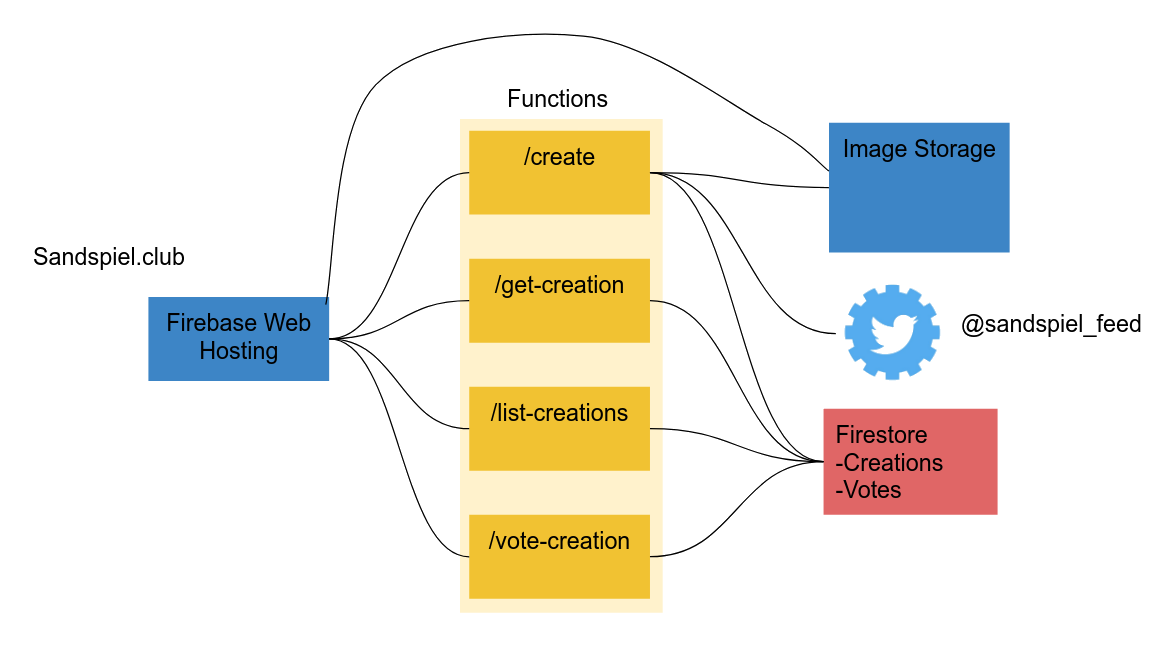
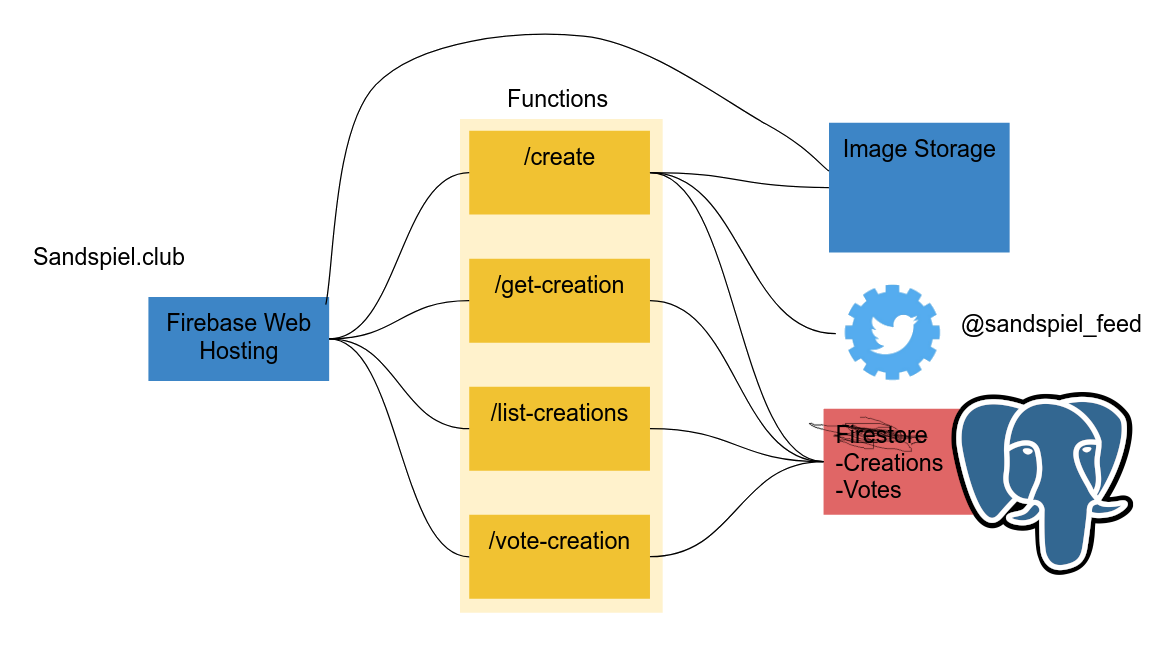
images

Changed region(s): [[0.8217, 0.5775, 1.0, 0.8815], [0.7, 0.6383, 0.7913, 0.6991]]

diff --git a/src/pages/making-sandspiel/index.md b/src/pages/making-sandspiel/index.md
@@ -1,7 +1,7 @@
 ---
-title: Making Sandspiel (wip dont share pls)
+title: Making Sandspiel
 path: making-sandspiel
-date: 2019-02-16 00:00:00
+date: 2019-04-30 00:00:00
 ---
 
 [Sandspiel](https://sandspiel.club) is a falling sand game I built in late 2018. I really enjoyed writing this game, and wanted to put into writing some of my goals, design decisions, and learnings from that process. If you're reading this and but you haven't played sandspiel, you should probably [go try it](https://sandspiel.club)!
@@ -24,9 +24,9 @@ I think that I love these games so much because their mode of play is creative i
 
 > "What happens if I do _this_?"
 
-In sand games, just like in other cellular automata (such as the _Game of Life_), the behavior of any single element is very simple. The interactions _between_ the elements and across the space is where the depth of the system unfolds. The result is a system with suprising depth and variety to explore.
+In sand games, just like in other cellular automata (such as the _Game of Life_), the behavior of any single element is very simple. The interactions _between_ the elements and across the space is where the depth of the system unfolds. The result is a system with surprising depth and variety to explore.
 
-It's also important that this system is engaging not just for it's complexity, but also because of the ways your imagination sees reality reflected in it. Predicting how a scenario will play out based on your physical intuition is a form of play, as is visualizing imaginary versions of what you see represented on screen. Much like playing with dolls or other simplistic simulations, pouring some yellow pixels onto some green ones can invoke a scene in your mind far more vivid than what happens on the screen.
+It's also important that this system is engaging not just for its actual depth, but also because of the ways your imagination sees reality reflected in it. Predicting how a scenario will play out based on your physical intuition is a form of play, as is visualizing imaginary versions of what you see represented on screen. Much like playing with dolls or other simplistic simulations, pouring some yellow pixels onto some green ones can invoke a scene in your mind far more vivid than what happens on the screen.
 
 > "Low-fidelity art is also appealingly open to interpretation. If a character is only eight pixels tall, a large part of what we see is within our own imagination." - Loren Schmidt
 
@@ -73,9 +73,9 @@ It's... a falling sand game! You can set things on fire, draw fountains, and the
 
 On the negative side, resolution is only 100x100 (Sandspiel has 9x more pixels), doesn't work on a phone, the interface is confusing and keyboard based, and the element logic is pretty janky.
 
-It's also rendered with canvas APIs, and the code is not organized in any intentional way. Plenty of dynamic typing, squishy abstractions, gnarly switch statements, and global variables. All of this made implementing and debugging each successive element's logic increasingly difficult-- to the point that it resulted in bugs that I domesticated and kept in the game, such as the element "Glitch" which behaves differently depending on what element you have selected.
+It's also rendered with canvas APIs, and the code is not organized in any intentional way. Plenty of dynamic typing, gnarly switch statements, and global variables. All of this made implementing and debugging each successive element's logic increasingly difficult-- to the point that it resulted in bugs that I domesticated and kept in the game, such as the element "Glitch" which behaves differently depending on what element you have selected.
 
-I was really proud of this game and had a great time building it, but it followed the familar arc of a system collapsing under its own weight as progress became more difficult and motivation waned. The last commit message was kind of classic, and I never did follow up on that "impending refactor".
+I was really proud of this game and had a great time building it, but it followed the familiar arc of a system collapsing under its own weight as progress became more difficult and motivation waned. The last commit message was kind of classic, and I never did follow up on that "impending refactor".
 
 ![last dust commit](dust_commits_master.png)
 
@@ -87,12 +87,13 @@ The [second approach](https://github.com/MaxBittker/sand-toy) was with Lua in 20
 A few things are briefly worth saying on this experience:
 First I need to gush that lua is super fast thanks to LuaJIT, and the [LÖVE](https://love2d.org/) framework is lovely tool for building games.
 Shaders, input handling, update and render loops -- everything clicked together thanks to LÖVE and made life easy - I could get things running quickly with minimal yak shaving and boilerplate.
-Coming from the browser, a tool into which I have personally sunk _hundreds_ of hours learning APIs, edge cases, and performance characteristics, it was a big surprise to see how effective a minimal programming environment for building games could be. So much complexity that we put up with is due to legacy and sunk costs!
+
+Coming from the browser, a tool into which I have personally sunk many hundreds of hours learning APIs, edge cases, and performance characteristics, it was a big surprise to see how effective a minimal programming environment for building games could be. So much complexity that we put up with is due to legacy and sunk costs!
 
   <figure>
 <video muted controls width="100%" autoplay="true" loop="true" name="lua video" src="lua.MOV"></video>
 
-  <figcaption>First vaugely working moment of the lua demo</figcaption>
+  <figcaption>First vaguely working moment of the lua demo</figcaption>
 </figure>
 
 Coming into this second attempt to build a sand game, I had 3 years of experience beyond what I had when building the pure javascript version. I also had an important new goal - not only did I want the game to be fun to play, but I also wanted elements to be fun to _write_.
@@ -130,7 +131,7 @@ Focusing on making the definition of a new element simple and self-contained rea
 
 Ultimately, I was excited about this approach and it was working well, but wanted to build on a platform where I could reach users. Despite everything good I had to say about LÖVE, the web is too powerful of a platform to pass up, and it's worth the quirks and warts.
 
-I decided to put down the lua implementation and switch to Rust, but I was able to directly translate many lessons and patterns over. Having a good idea of what my datastructures would be and what types of APIs would be defined between components made writing the Rust version much smoother.
+I decided to put down the lua implementation and switch to Rust, but I was able to directly translate many lessons and patterns over. Having a good idea of what my data-structures would be and what types of APIs would be defined between components made writing the Rust version much smoother.
 
 Implementing one idea multiple times was a huge strength in my ability to structure my codebase, forsee pitfalls, and make more thoughtful and intentional tradeoffs. I would strongly recommend this experience to anyone - If you have a project that you've attempted in the past but either didn't finish or made compromises on due to your technical skills or endurance, taking another crack at it can a great opportunity to sweat the details and see new approaches.
 
@@ -138,7 +139,7 @@ Implementing one idea multiple times was a huge strength in my ability to struct
 
 Sandspiel.club can be described as four main components
 
-- the particle simulation code, writen in Rust
+- the particle simulation code, written in Rust
 - a fluid simulation, written in JS & GLSL
 - user interface written in React & JS
 - a CRUD backend written with TypeScript and ~~Firebase~~ Postgres
@@ -188,7 +189,7 @@ Nowhere in this cell state struct is a concept of location. This is because, as 
 
 ### Update Function
 
-The most important pieces of code in the game are the set of functions, one per element type, that define how each particle interacts with its neighbors each frame. Theoretically, you could delete these functions (which live in [species.rs](https://github.com/MaxBittker/sandspiel/blob/master/crate/src/species.rs) ) and write a new set that transform the game into a cellular automata simulator for some other system, such an ant farm, a petri dish, a cityscape, a paint canvas, an aquarium, or an abstract fractal playground.
+The most important pieces of code in the game are the set of functions, one per element type, that define how each particle interacts with its neighbors each frame. Theoretically, you could delete these functions (which live in [species.rs](https://github.com/MaxBittker/sandspiel/blob/master/crate/src/species.rs) ) and write a new set that transform the game into a cellular automata simulator for some other system, such an ant farm, a petri dish, a city-scape, a paint canvas, an aquarium, or an abstract fractal playground.
 
 Here's an example of how one of our elements is defined:
 
@@ -269,66 +270,89 @@ Sandspiel's fluid simulation usually really stands out to people who play with i
 
 Adapting the code was difficult because, in order to have interactions between the wind (simulated on the GPU) and the particles (simulated on the CPU), I needed to pass data from Web Assembly to WebGL (in the same fashion as I mentioned for the rendering), _and_ from WebGL back into to Web Assembly (this bit was trickier, as WebGL can by picky about which buffers are readable, and when you can read from them).
 
-I also needed to do this in a way that used only the subset WebGL features supported on most phones - WebGl is a pretty large spec, and for hardware and driver reasons, not all of it is available on all devices.
+I also needed to do this in a way that used only the subset of WebGL features supported on most phones - WebGl is a pretty large spec, and for hardware and driver reasons, not all of it is available on all devices.
 
-The texture types they support required some munging, because the fluid simulation is done with floats, but to support phones I could only move data in or out of the shaders via unsigned byte textures.
+<!--
+The texture types they do support required some munging, because the fluid simulation is done with floats, but to support phones I could only move data in or out of the shaders via unsigned byte textures. -->
 
-There’s also a maximum # of simultaneously bound texture units of 8, and I had to plug a lot of gaps in my knowledge of how OpenGL works in order to correctly bind textures for each shader and stay under that limit.
+<!-- There’s also a maximum number of simultaneously bound texture units of 8, and I had to plug a lot of gaps in my knowledge of how OpenGL works in order to correctly bind textures for each shader and stay under that limit. -->
 
-All of this was made worse by the fact that my only phone to test code on runs iOS, and Apple only allows you to connect to the mobile safari devtools from a Mac. So I was debugging many of these WebGL device-specific limitations without so much as a console. Frustrating!
+This process was made worse by the fact that my only phone on which to test code runs iOS, and Apple only allows you to connect to the mobile safari developer tools from a Mac (which I don't have). So I was debugging many of these WebGL device-specific limitations without so much as a console. Frustrating!
 
 ### User Interface
 
-Sandspiel's interface is actually much simpler than most falling sand games. This was an intentional result of trying to keep the UI light and fun on a touch screen, by avoiding interactions that require multiple taps to complete. Some examples of this are that none of the tools require cycling through different settings or drop-down menus, and I dropped the system of multiple selection that other games use for elements like clone.
+Sandspiel's interface is actually much simpler than most falling sand games. I made an intentional effort to keep the UI light and fun on a touch screen, by avoiding interactions that require multiple taps to complete. Some examples of this are that none of the tools require cycling through different settings or drop-down menus, and I dropped the system of two-stage selection that other games use to implement elements like clone and firework.
 
 ![sandspiel ui](ui.png)
 
-I also put a lot of care into the line drawing itself - there's some fiddly code handling edge cases related to taps, drags, scrolling, and other interaction events on and around the canvas. This is the sort of tuning that should be invisible if it's working, but I ran into a lot of interaction scenarios while testing the game, and tried to sand them down.
-A regret is that I disabled pinch-to-zoom as part of this work.
-After seeing people's intricate art, I wish I'd found a solution for interactions to be predictable and still zoomable, to let people draw at different scales. Facilitating and disambiguating multiple gestures in a single arena is a complex and fascinating corner of algorithms and human computer interaction, and I have new respect for the the work that goes into building rich touch screen experiences.
+I also put care into the line drawing itself - there's some fiddly edge cases related to handling taps, drags, scrolling, and other interaction events on the canvas. This is the sort of tuning that should be invisible if it's working, but I ran into a lot of interaction scenarios while testing the game, and tried to sand down the rough edges.
+
+As part of this work, I disabled pinch-to-zoom - it would be an interesting challenge to try to fit that back into the space of supported interactions.
+
+Facilitating and disambiguating multiple gestures in a single arena is a complex and fascinating corner of algorithms and human computer interaction, and I have new respect for the often invisible work that goes into building rich touch screen experiences.
 
 #### UI Code
 
-I threw the interface together mostly in React. If you have one takeaway about Web Assembly from this project, I want it to be that WASM is not an all or nothing undertaking! Having the ability to put low-level and performance-critical logic into Rust and still handle all the browsery stuff, glue code, and UI in Javascript was critical to this project coming together quickly and having a nice interface.
+I threw the interface together mostly in React. If you have one takeaway about Web Assembly from this project, I want it to be that WASM is not an all or nothing undertaking! Having the ability to put low-level and performance-critical logic into Rust and still handle all the browser API stuff, glue code, and UI in Javascript was critical to this project coming together quickly and having a nice interface.
 
 Leveraging the npm ecosystem for tools like React, Regl, and GLSLify, as well as exercising Javascript's flexibility to toss data anywhere I needed it without much planning or refactoring enabled me patch things together quickly and loosely.
 
 Nothing I wrote in JS would have been _impossible_ to accomplish in Rust, but it wouldn't have come together as easily and I wouldn't have been able to test as many ideas along the way.
 
-That being said, building high quality interfaces is something I value and respect, but I definitely did phone it in for the React part of the codebase. `ui.js` is basically one huge class and the experience suffers for it. There are still a bunch of absent small touches like loading indicators, proper routing (😬), visual feedback on buttons, pagination, etc. I was really itching to release the game and didn't budget the time to do a better job. But I have no regrets. Building polished interfaces is my day job, so it feels like work, and I think what I built is good enough for now. Hopefully, I'll come re-write this when I'm feeling motivated to add some features or learn about React hooks or something.
+<!-- That being said, building high quality interfaces is something I value and respect, but I definitely did phone it in for the React part of the codebase. `ui.js` is basically one huge class and the experience suffers for it. There are still a bunch of absent small touches like loading indicators, proper routing (😬), visual feedback on buttons, pagination, etc. I was really itching to release the game and didn't budget the time to do a better job. But I have no regrets. Building polished interfaces is my day job, so it feels like work, and I think what I built is good enough for now. Hopefully, I'll come re-write this when I'm feeling motivated to add some features or learn about React hooks or something. -->
 
 ### Sharing & Persistence
 
-To fully capture the creative micro-community of other falling sand games, I wanted there to be functionality for uploading creations, and browsing others' works. I decided to try using Firebase to handle my backend needs, and I think that worked out pretty well! One design decision that turned out to be important was that I wanted to avoid dealing with accounts and authorization. I find that stuff annoying for the user and boring to implement so I went to some lengths to do without it.
+To fully capture the creative micro-community of other falling sand games, I wanted there to be functionality for uploading creations, and browsing others' works. I decided to try using Firebase to handle my backend needs, and I think that worked out pretty well!
+One design decision that turned out to be important was that I wanted to avoid dealing with accounts and authorization. I find that stuff annoying for the user and boring to implement so I went to some lengths to do without it.
 
-The way that I handled data security without auth was putting all data writing inside of cloud function api endpoints, and using these to constrain what the client could do. (basically, insert and vote only, no editing or deleting of other posts). My workaround for voting deduplication was to use IP addresses, which is possible to manipulate, but I don't really care enough to try to fight it.
+The way that I handled data security without auth was putting all data writing inside of api endpoints, and using these to constrain what the client could do. (basically, GET, INSERT and voting only, no editing or deleting of other posts). My workaround for voting deduplication was to use IP addresses, which is possible to manipulate, but I don't really care enough to try to fight it.
 
-A cool thing here about the storage functionality is that I serialize the game state as a PNG file, which is lossless and highly compressible. Plus, browsers have PNG encoders and decoders built in, so that's more code I don't need to import and ship with my bundle.
-Here's what the data looks like as a PNG: (remember, "red" is `species`, "green" is `ra`, and blue is `rb`)
-![data](data.png)
+I run these API endpoints as a cloud function, cloud functions seem cheap and great.
+
+A cool thing here about the storage functionality is that I serialize the game state as a PNG file, which is lossless and highly compressible. Plus, browsers have efficient PNG encoders and decoders built in, so that's more code I don't need to import and ship with my bundle.
+Here's what the data looks like as a PNG: (remember, in each RGB pixel, "red" is `species`, "green" is `ra`, and blue is `rb`)
+![data as png](data.png)
 
 The basic architecture of my backend is something like this:
 ![firebase](firebase.png)
 
-There were times while debugging when I was really just wished I was writing a http server with a redis instance and a directory full of files, with nothing hidden behind proprietary services. But I don't want to be on the hook for availability and server management - especially when the [other things](https://twitter.com/NYT_first_said) running on my VPS are already fragile, stateful, and ad hoc. Firebase was harder to debug and run adhoc scripts against, but I don't have to think about it now that the service is deployed, and it's reliable and (almost) cheap enough. Running the game for all of February cost about \$45, and 98% of that was "firestore reads" which I haven't yet tried to optimize for 😬. I expect that once I re-design the browse functionality to paginate and be more frugal (it blindly pulls down 500 results, and most users probably don't look past the first 30), it will be sustainable for me to keep running for while at the current rate of traffic.
+There were times while debugging when I was really just wished I was writing a http server backed by a redis instance and a directory full of files, with nothing hidden behind proprietary services and configuration languages. But I don't want to be on the hook for availability, persistance, and server management - especially when the [other things](https://twitter.com/NYT_first_said) running on my VPS are already fragile, stateful, and ad hoc. Firebase was harder to debug and run adhoc scripts against, but I don't have to think about it now that the service is deployed, and it's reliable and cheap enough.
+
+Running the game for a few months started to become expensive as traffic ramped up, 99% dominated by Firestore reads. (I think the architecture I had of listing out large sections of documents without caching or pagination wasn't well suited to Firestore.)
+
+I didn't want to continue paying \$50 a month for Firestore, and I also wanted to implement more interesting query capabilities, including full-text search.
+
+This led me to migrate my ~60k records off of Firestore and into a Postgres instance, which I'm really glad to have done. Operating Postgres has been about 10% of the price, significantly lower latency, and allows me to run complex queries to power new features like the search box.
 
 ### Community
 
-A (couple thousand)[https://simpleanalytics.io/sandspiel.club] people play with Sandspiel every day now! The upload boards get spammed with all sorts of beauty and nonsense, and it warms my heart to see people playing, interacting and (mostly) having fun. The playerbase skews pretty young, and uploads are filled with memes, kids promoting their tiktok accounts, etc etc.
+A [couple thousand](https://simpleanalytics.io/sandspiel.club) people play with sandspiel every day now! The upload boards get spammed with all sorts of beauty and nonsense, and it warms my heart to see people playing, interacting and (mostly) having fun. The playerbase skews pretty young, and uploads are filled with memes, kids promoting their youtube accounts, etc etc.
 
-People have uploaded sophisticated rube goldberg reactions, coloring book "complete the drawing" prompts, abstract art, crude graffiti, and everything in between. One upload that surpised me was when someone played with the data buffer directly, to write out-of-range species data. This resulted in an element with no defined behavior, the "MissingNo." of sandspiel.
+If you load one creation, this irreverent homage to the Notre Dame cathedral might be my favorite:
+(Make sure to press ▷ once it's loaded)
+[![notre dame](notre.png)](https://sandspiel.club/#dac3ceca6a45502e8dc5)
 
-Doonaloona
-SparkyKat
-Belp
-glitch liquid
-js api
+People have uploaded more than 75 thousand creations, ranging from sophisticated rube goldberg reactions, coloring book "complete the drawing" [prompts](https://sandspiel.club/browse/search/?title=ponybase), [impressionist paintings](https://sandspiel.club/browse/search/?title=new%20mexico), [crude kinetic graffiti](https://sandspiel.club/#hic2GrXYo12ZdyBv1Qcw), and everything in between.
 
-Thanks for reading, thanks for playing!
+[![system](system.png)](https://sandspiel.club/#rcDbjakVCmpz0oceeZDf)
+
+One upload that surprised me was when someone manipulated the data buffer directly, to upload out-of-range species data.
+
+This resulted in a pink element with no intentionally defined behavior, like the "[MissingNo.](https://en.wikipedia.org/wiki/MissingNo.)" of sandspiel. It totally made my day when I realized what had happened, as this was not something I thought was possible! [I like to call it "belp".](https://sandspiel.club/#eMlYGC52XIto0NM1WjaJ)
+
+[![vampkiddle](vampkiddle.png)](https://sandspiel.club/browse/search/?title=vampkiddle)
+
+There's a healthy remix culture of people making new takes on popular templates. Two favorites are doonaloona, the puppy queen of sandspiel
+[![doona](doona.png)](https://sandspiel.club/browse/search/?title=doonaloona)
+and these images of reggie that someone was able to upload in different elements.
+[![reggie](reggie.png)](https://sandspiel.club/browse/search/?title=reggie)
+
+Thank you so much for reading, and thanks for playing!
 
 #Resources to check out:
 
-[The Rust Wasm Book](https://rustwasm.github.io/book/) is a _great_ succinct resource that covers all aspects of writing a hybrid JS & Rust application. I had basic rust knowledge before starting Sandspiel, but no knowledge of web assembly, and was able to follow this book to bootstrap the game. A lot of code from the book actually ended up in my game, since their example was cellular automota related.
+[The Rust Wasm Book](https://rustwasm.github.io/book/) is a _great_ succinct resource that covers all aspects of writing a hybrid JS & Rust application. I had basic rust knowledge before starting Sandspiel, but no knowledge of web assembly, and was able to follow this book to bootstrap the game. A lot of code from the book actually ended up in my game, since their example was cellular automata related.
 
 [The Book of Shaders](https://thebookofshaders.com/) I didn't specifically reference TBoS during this project, but I take any opportunity I can get to recommend it to anyone interested in learning graphics programming. I wish this book was a part of high school math curriculums.
 
